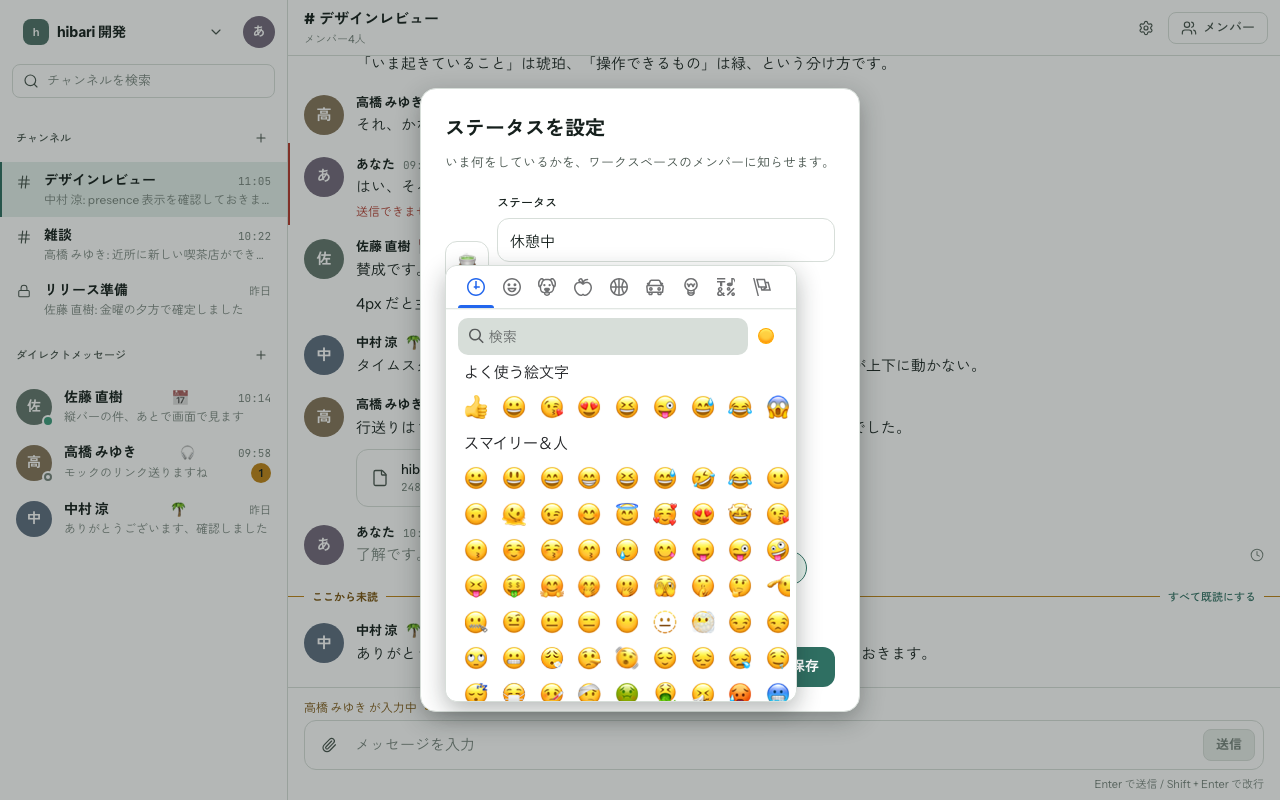
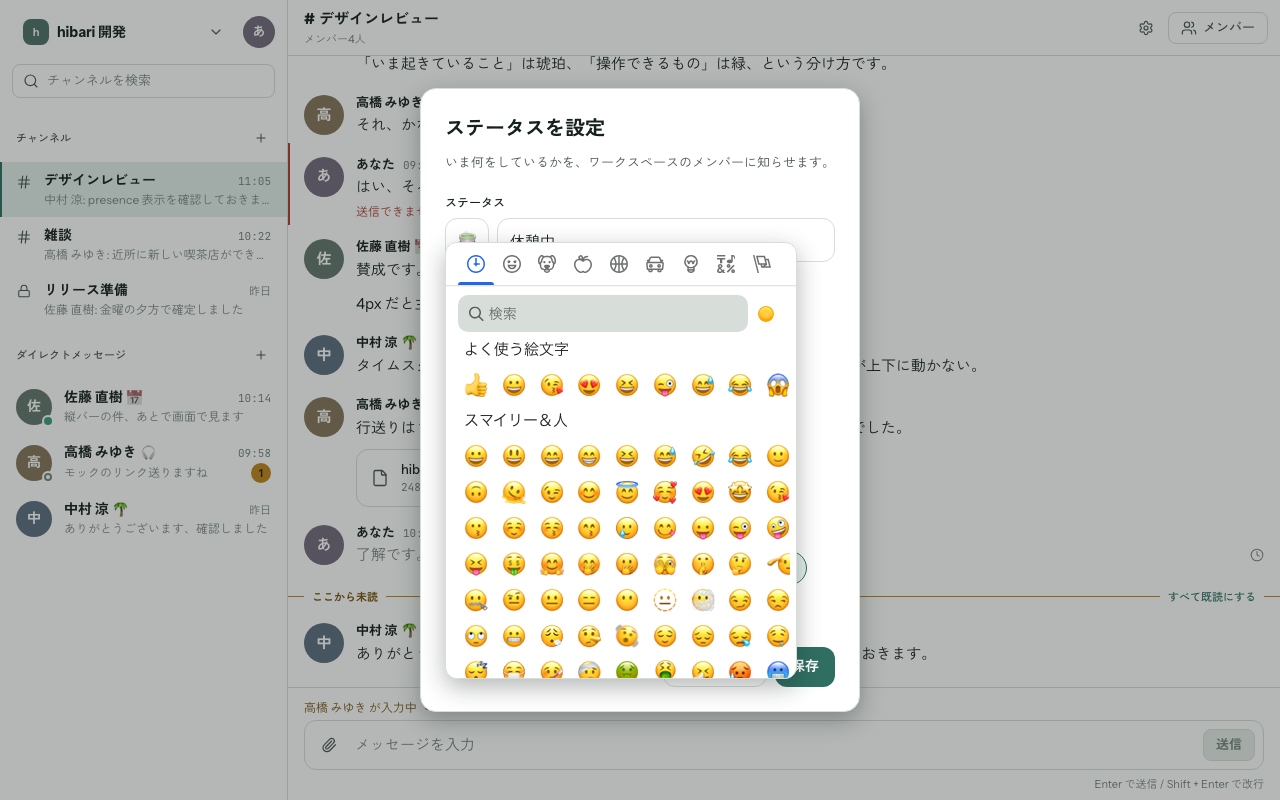
fix(web): ステータスの絵文字のボタンを入力欄と同じ行にそろえる
ボタンをラベルと補足（残りの文字数）の外に並べていたので、補足のぶんだけ
入力欄より下にずれていた（PC・モバイルとも）。TextField に leading を足し、
ラベルと補足の内側・入力欄と同じ行に置く。高さは size-11 と h-11 でそろう。

オーナーの指摘（2026-09-21）。

diff --git a/web/components/chat/status-dialog.tsx b/web/components/chat/status-dialog.tsx
@@ -117,29 +117,29 @@ export function StatusDialog({
       }
     >
       <div className="flex flex-col gap-4">
-        <div className="flex items-end gap-2">
-          <button
-            ref={emojiButtonRef}
-            type="button"
-            aria-label="絵文字を選ぶ"
-            aria-expanded={pickerOpen}
-            onClick={onTogglePicker}
-            className="flex size-11 shrink-0 cursor-pointer items-center justify-center rounded-md border border-border bg-surface text-lg hover:bg-surface-muted"
-          >
-            <span role="img" aria-hidden>
-              {emoji}
-            </span>
-          </button>
-          <TextField
-            label="ステータス"
-            className="flex-1"
-            value={text}
-            maxLength={STATUS_TEXT_MAX}
-            placeholder="いま何をしていますか？"
-            onChange={(e) => onChangeText?.(e.target.value)}
-            hint={`${[...text].length} / ${STATUS_TEXT_MAX}`}
-          />
-        </div>
+        {/* 絵文字のボタンは入力欄と同じ行に入れる（leading）。ラベルと補足の外に置くと、補足のぶん下にずれる */}
+        <TextField
+          label="ステータス"
+          value={text}
+          maxLength={STATUS_TEXT_MAX}
+          placeholder="いま何をしていますか？"
+          onChange={(e) => onChangeText?.(e.target.value)}
+          hint={`${[...text].length} / ${STATUS_TEXT_MAX}`}
+          leading={
+            <button
+              ref={emojiButtonRef}
+              type="button"
+              aria-label="絵文字を選ぶ"
+              aria-expanded={pickerOpen}
+              onClick={onTogglePicker}
+              className="flex size-11 shrink-0 cursor-pointer items-center justify-center rounded-md border border-border bg-surface text-lg hover:bg-surface-muted"
+            >
+              <span role="img" aria-hidden>
+                {emoji}
+              </span>
+            </button>
+          }
+        />
 
         {pickerOpen &&
           (desktopPicker ? (

diff --git a/web/components/ui/field.tsx b/web/components/ui/field.tsx
@@ -41,14 +41,19 @@ export type TextFieldProps = Omit<InputHTMLAttributes<HTMLInputElement>, "id"> &
   hint?: ReactNode;
   /** 入力欄の左に固定で出す文字（ハンドルの「@」）。 */
   prefix?: string;
+  /**
+   * 入力欄の左に並べる操作（カスタムステータスの絵文字のボタン）。
+   * ラベルと補足の外ではなく**入力欄と同じ行**に置くので、高さがそろう（外に置くと補足のぶん下にずれる）。
+   */
+  leading?: ReactNode;
   mono?: boolean;
 };
 
-export function TextField({ label, hint, prefix, mono, className, ...props }: TextFieldProps) {
+export function TextField({ label, hint, prefix, leading, mono, className, ...props }: TextFieldProps) {
   return (
     <Field label={label} hint={hint} className={className}>
-      {(id, hintId) =>
-        prefix ? (
+      {(id, hintId) => {
+        const input = prefix ? (
           <div className="relative">
             <span
               aria-hidden
@@ -60,8 +65,15 @@ export function TextField({ label, hint, prefix, mono, className, ...props }: Te
           </div>
         ) : (
           <input id={id} aria-describedby={hintId} className={cx(inputClass, mono && "font-mono")} {...props} />
-        )
-      }
+        );
+        if (!leading) return input;
+        return (
+          <div className="flex items-center gap-2">
+            {leading}
+            <div className="min-w-0 flex-1">{input}</div>
+          </div>
+        );
+      }}
     </Field>
   );
 }
